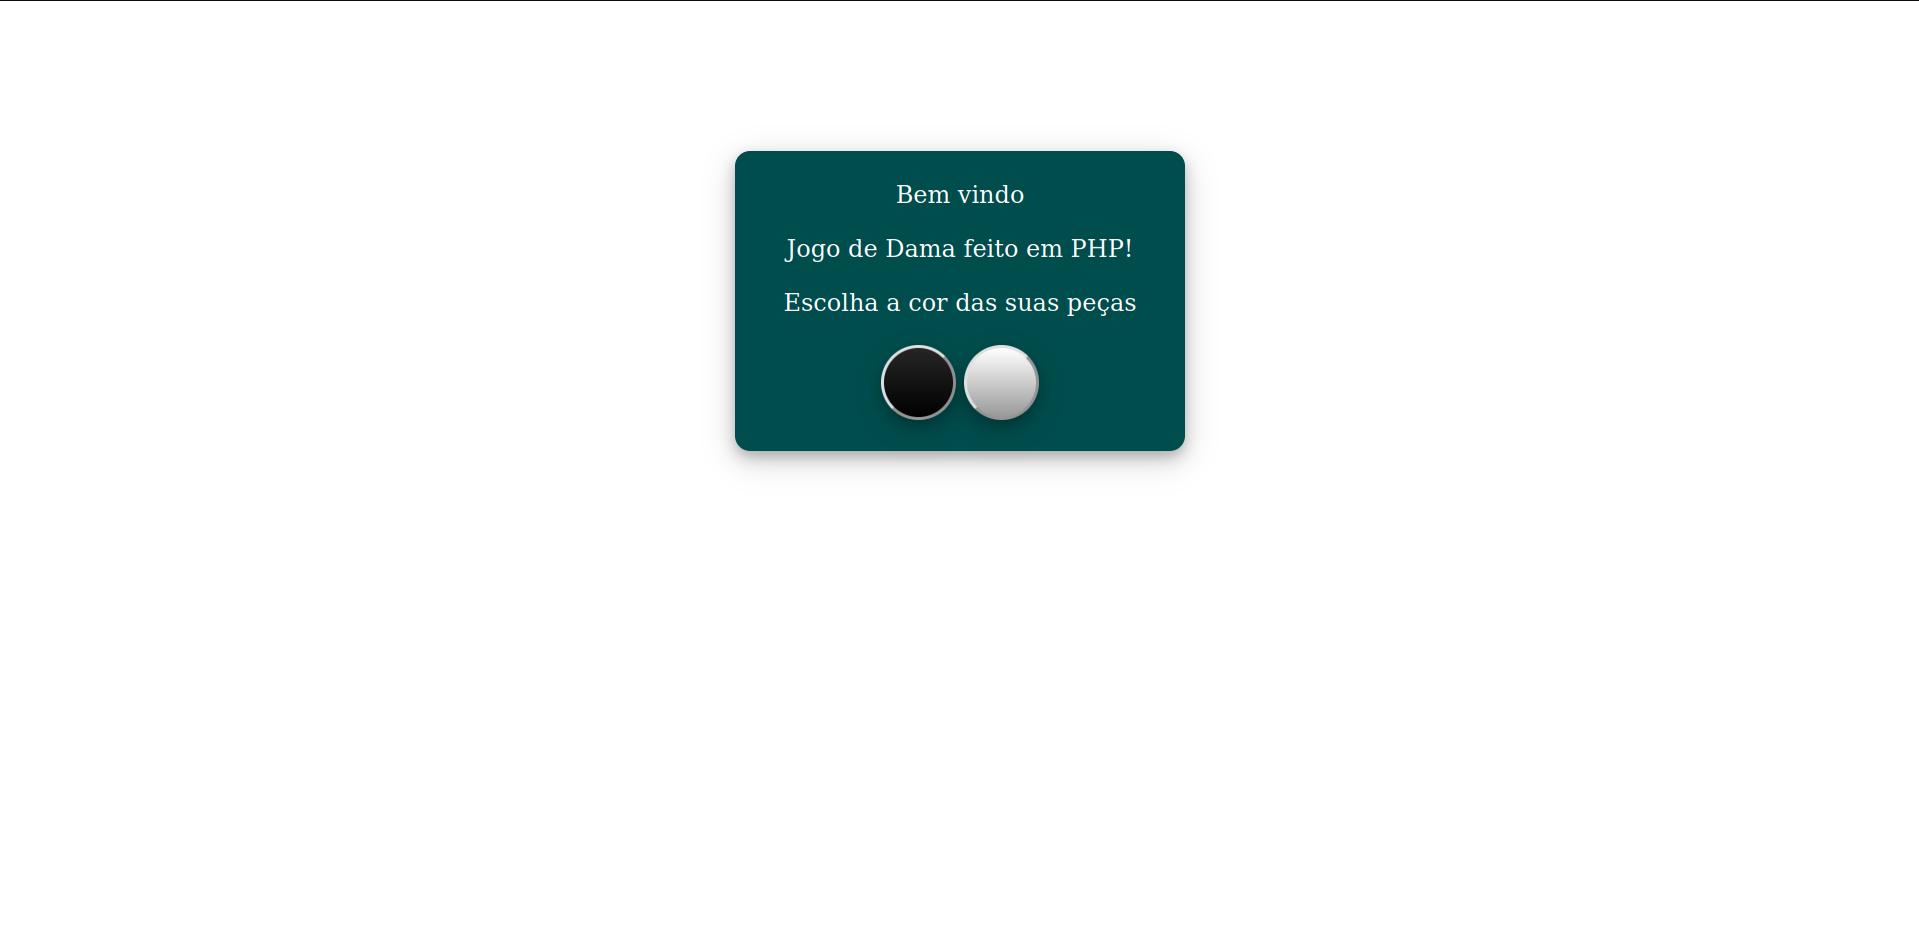
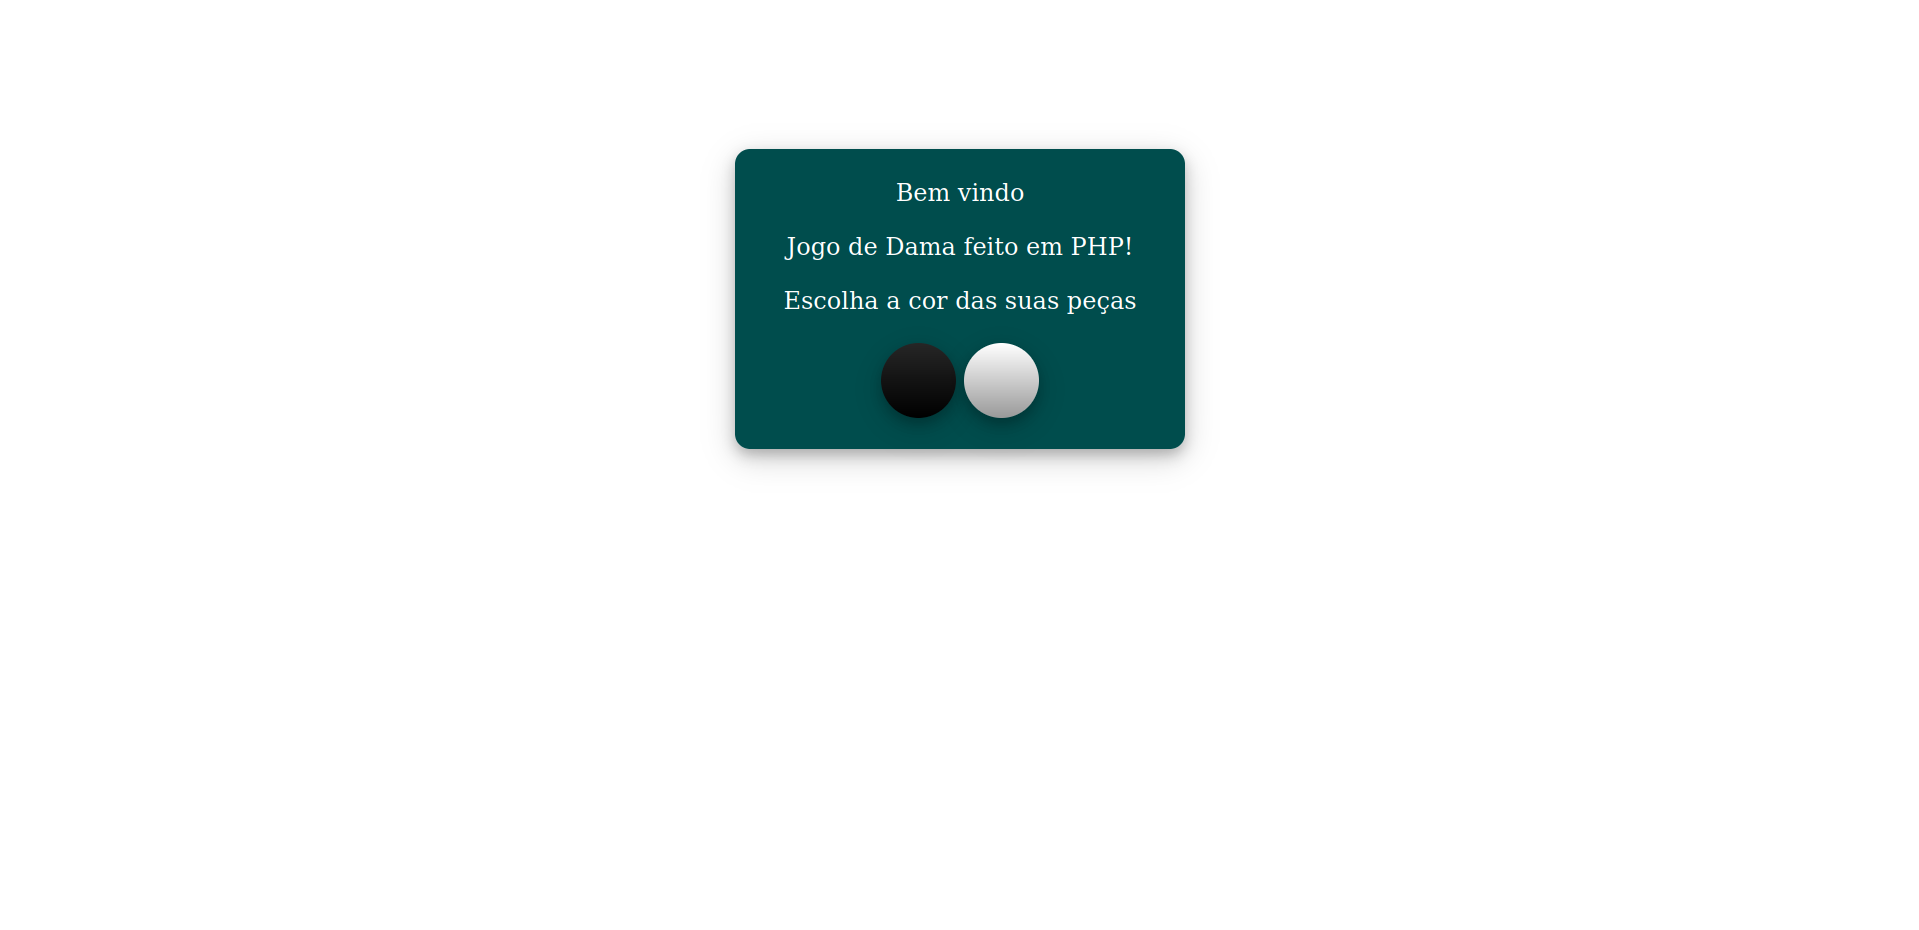
Finalizado regra de múltiplas capturas de peças

diff --git a/public/assets/css/home.css b/public/assets/css/home.css
@@ -29,6 +29,7 @@ input{
 button{
     height: 50px;
     width: 50px;
+    border: 0;
     border-radius: 50px;
 }
 .player-black{

diff --git a/App/Models/Rules.php b/App/Models/Rules.php
@@ -13,7 +13,7 @@ use Exception;
 
 class Rules
 {
-    private $path = [];
+    private $paths = [];
     private $path_base = [];
     private $ignored = [];
     private $option = 1;
@@ -24,7 +24,7 @@ class Rules
     {
         $data = Data::getInstance();
         ['player-chosen' => $p_chosen, 'board' => $board, 'piece-attacking' => $p_att, 'line-source' => $l_src, 'column-source' => $c_src, 'line-destiny' => $l_dst, 'column-destiny' => $c_dst] = $data->getData();
-        //$data->setValue('move-type','movePiece');
+
         if($this->movement($data ,$p_chosen, $board, $p_att, $l_src, $c_src, $l_dst, $c_dst)){return true;}
         if($this->capture($data, $board, $p_att, $l_src, $c_src, $l_dst, $c_dst)){return true;}
         else{throw new Exception('Movimento Inválido');}
@@ -99,12 +99,12 @@ class Rules
                         if($this->depth_level < $this->depth_level_max)
                         {
                             $this->option++;
-                            $this->path[$this->option] = array_merge($this->path_base);
+                            $this->paths[$this->option] = array_merge($this->path_base);
                         }
 
                         $this->depth_level_max = ++$this->depth_level;
                         $this->ignored[] = $p_enemy;
-                        $this->path_base[] = $this->path[$this->option][] = ['l-src' => $l_src, 'c-src' => $c_src, 'p-enemy' => $p_enemy, 'l-mdw' => $l1, 'c-mdw' => $c1, 'l-dst' => $l2, 'c-dst' => $c2];
+                        $this->path_base[] = $this->paths[$this->option][] = ['l-src' => $l_src, 'c-src' => $c_src, 'p-enemy' => $p_enemy, 'l-mdw' => $l1, 'c-mdw' => $c1, 'l-dst' => $l2, 'c-dst' => $c2];
                         $l_src = $l2; $c_src = $c2;
 
                         $this->capture($data, $board, $p_att, $l_src, $c_src, $l_dst, $c_dst);
@@ -122,29 +122,60 @@ class Rules
         array_pop($this->ignored);
         $this->depth_level--;
 
-        if($this->depth_level == -1 && count($this->path) > 0)
+        if($this->depth_level == -1 && count($this->paths) > 0)
         {
-            $count = array_map('count', $this->path);
-            $max = array_keys($count , max($count))[0];
-            $key = array_key_last($this->path[$max]);
+            $options_counted = array_map('count', $this->paths);
+            $best_options = array_keys($options_counted , max($options_counted));
 
-            if($this->path[$max][$key]['l-dst'] == $l_dst && $this->path[$max][$key]['c-dst'] == $c_dst)
+            if(count($best_options) == 1)
             {
-                $data->setValue('move-type','capturePiece');
-                $pieces_captured = [];
+                $option = $best_options[0];
+                $last_path = end($this->paths[$option]);
 
-                foreach($this->path[$max] as $value)
+                if($last_path['l-dst'] == $l_dst && $last_path['c-dst'] == $c_dst)
                 {
-                    $pieces_captured[] =
-                    [
-                        'piece-captured' => $value['p-enemy'],
-                        'line-midway' => $value['l-mdw'],
-                        'column-midway' => $value['c-mdw']
-                    ];
-                }
+                    $data->setValue('move-type','capturePiece');
+                    $pieces_captured = [];
 
-                $data->setValue('pieces-captured',$pieces_captured);
-                return true;
+                    foreach($this->paths[$option] as $path)
+                    {
+                        $pieces_captured[] =
+                        [
+                            'piece-captured' => $path['p-enemy'],
+                            'line-midway' => $path['l-mdw'],
+                            'column-midway' => $path['c-mdw']
+                        ];
+                    }
+
+                    $data->setValue('pieces-captured',$pieces_captured);
+                    return true;
+                }
+            }
+            elseif(count($best_options) > 1)
+            {
+                foreach($best_options as $option)
+                {
+                    $last_path = end($this->paths[$option]);
+
+                    if($last_path['l-dst'] == $l_dst && $last_path['c-dst'] == $c_dst)
+                    {
+                        $data->setValue('move-type','capturePiece');
+                        $pieces_captured = [];
+
+                        foreach($this->paths[$option] as $path)
+                        {
+                            $pieces_captured[] =
+                            [
+                                'piece-captured' => $path['p-enemy'],
+                                'line-midway' => $path['l-mdw'],
+                                'column-midway' => $path['c-mdw']
+                            ];
+                        }
+
+                        $data->setValue('pieces-captured',$pieces_captured);
+                        return true;
+                    }
+                }
             }
         }
     }

diff --git a/Core/Session.php b/Core/Session.php
@@ -9,8 +9,6 @@
 namespace Core;
 
 use Core\Data;
-use Core\Post;
-use Core\MovementHistory;
 
 class Session
 {
@@ -26,16 +24,16 @@ class Session
     {
         $data = Data::getInstance();
 
-        self::setValue('board',$data->getValue('board'));
-        self::setValue('player-chosen',$data->getValue('player-chosen'));
-        self::setValue('turn',$data->getValue('turn'));
-        self::setValue('movement-history',$data->getValue('movement-history'));
-        self::setValue('cemetery',$data->getValue('cemetery'));
-        self::setValue('player-current-left',$data->getValue('player-current-left'));
-        self::setValue('player-top-right',$data->getValue('player-top-right'));
-        self::setValue('player-lower-right',$data->getValue('player-lower-right'));
-        self::setValue('player-current-top-right',$data->getValue('player-current-top-right'));
-        self::setValue('player-current-lower-right',$data->getValue('player-current-lower-right'));
+        $_SESSION['board'] = $data->getValue('board');
+        $_SESSION['player-chosen'] = $data->getValue('player-chosen');
+        $_SESSION['turn'] = $data->getValue('turn');
+        $_SESSION['movement-history'] = $data->getValue('movement-history');
+        $_SESSION['cemetery'] = $data->getValue('cemetery');
+        $_SESSION['player-current-left'] = $data->getValue('player-current-left');
+        $_SESSION['player-top-right'] = $data->getValue('player-top-right');
+        $_SESSION['player-lower-right'] = $data->getValue('player-lower-right');
+        $_SESSION['player-current-top-right'] = $data->getValue('player-current-top-right');
+        $_SESSION['player-current-lower-right'] = $data->getValue('player-current-lower-right');
     }
 
     public static function empty()

diff --git a/App/Models/Move.php b/App/Models/Move.php
@@ -44,9 +44,7 @@ class Move
         $board->unsetPiece($l_src, $c_src);
         $board->setPiece($l_dst, $c_dst, $p_att);
         $mh->setValues($turn ,$p_att, $l_src, $c_src, $l_dst, $c_dst);
-        $data->setValue('board', $board);
         $data->setValue('turn', ++$turn);
-        $data->setValue('movement-history', $mh);
     }
 
     private function capturePiece($data, $board, $turn, $mh, $cemetery, $p_att, $l_src, $c_src, $l_dst, $c_dst, $pieces_captured)
@@ -62,12 +60,10 @@ class Move
             $c_midway = $pieces_captured[$n]['column-midway'];
 
             $board->unsetPiece($l_midway, $c_midway);
-            $cemetery[$turn][$n] = $pieces_captured;
+            $cemetery[$turn][$n] = $piece_captured;
         }
 
         $mh->setValues($turn, $p_att, $l_src, $c_src, $l_dst, $c_dst, $pieces_captured);
-        $data->setValue('board', $board);
         $data->setValue('turn', ++$turn);
-        $data->setValue('movement-history', $mh);
     }
 }

diff --git a/App/Controllers/Board.php b/App/Controllers/Board.php
@@ -8,14 +8,8 @@
 
 namespace App\Controllers;
 
-use Core\Session;
-use Core\Data;
-use App\Models\DataInput;
-use App\Models\Board as BoardModel;
-use App\Models\PlayerBoardSide;
-use App\Models\PlayerCurrent;
-use App\Models\Rules;
-use App\Models\Move;
+use Core\{Session, Data};
+use App\Models\{DataInput, Board as BoardModel, PlayerBoardSide, PlayerCurrent, Rules, Move};
 use App\Views\Board\Board as BoardView;
 use Exception;
 
@@ -41,7 +35,6 @@ class Board
         }
         catch(Exception $e)
         {
-            //por enquanto é só um improviso, mas juro que vou melhorar essa parte =D
             //não é pra entrar aqui, a não ser que algum usuário malicioso
             //altere alguma informação no lado do cliente que não deveria ser alterada
             Session::destroy();

diff --git a/Core/Data.php b/Core/Data.php
@@ -8,8 +8,7 @@
 
 namespace Core;
 
-use Core\Session;
-use Core\Post;
+use Core\{Session, Post};
 
 class Data
 {
@@ -50,10 +49,7 @@ class Data
 
     public function setValue($param, $value)
     {
-        if( array_key_exists($param, $this->data))
-        {
-            $this->data[$param] = $value;
-        }
+        $this->data[$param] = $value;
     }
 
     public function getValue($param)

diff --git a/Core/Piece.php b/Core/Piece.php
@@ -16,9 +16,7 @@ class Piece
     // 4 = dame
     // 1-12 = id
 
-    private $id;
-    private $type;
-    private $color;
+    private $id, $type, $color;
 
     public function __construct($id, $type, $color)
     {

diff --git a/App/Models/Board.php b/App/Models/Board.php
@@ -8,9 +8,7 @@
 
 namespace App\Models;
 
-use Core\Data;
-use Core\Board as BoardCore;
-use Core\Piece;
+use Core\{Data, Piece, Board as BoardCore};
 
 class Board
 {

diff --git a/public/index.php b/public/index.php
@@ -8,8 +8,7 @@
 
 require_once '../vendor/autoload.php';
 
-use Core\Session;
-use Core\Post;
+use Core\{Session, Post};
 
 new Session;
 

diff --git a/README.md b/README.md
@@ -35,7 +35,6 @@ Versão do PHP utilizada para o desenvolvimento desse jogo = PHP 7.4.3
 - [ ] Opção entrar como visitante com um codinome
 - [ ] Opção entrar com credênciais
 - [ ] Ranking dos melhores jogadores
-- [ ] Opção de jogar contra o criador
 
 ### Regras
 
